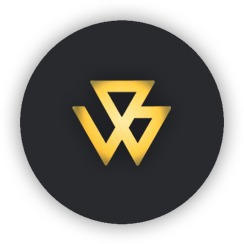
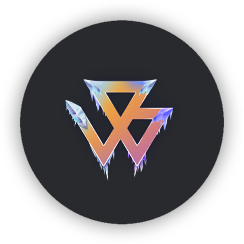
Редизайн нового года

Changed region(s): [[0.2582, 0.3156, 0.7172, 0.7459]]

diff --git a/Byster/Byster/Views/MainWindowReworked.xaml b/Byster/Byster/Views/MainWindowReworked.xaml
@@ -43,10 +43,11 @@
         <Grid x:Name="topPanel" Grid.Row="0">
             <Button x:Name="titleButton" Style="{DynamicResource imageButtonStyle}" HorizontalAlignment="Left" Margin="5" Cursor="Hand"
                     Command="{Binding UnselectSessionCommand}">
-                <Image Source="/Resources/Images/logo.png"/>
+                <Image Source="/Resources/Images/logo.png" RenderOptions.BitmapScalingMode="HighQuality" Width="164" Stretch="Uniform"/>
             </Button>
 
-            <Image Source="/Resources/Images/top-decoration-figure.png" Width="720" VerticalAlignment="Top"/>
+            <Image Source="/Resources/Images/top-decoration-toys.png" RenderOptions.BitmapScalingMode="HighQuality" Stretch="Uniform" Height="65" HorizontalAlignment="Right" Margin="0, 0, 242, 0" VerticalAlignment="Top"/>
+            <Image Source="/Resources/Images/top-decoration-figure.png" Width="840" RenderOptions.BitmapScalingMode="HighQuality" VerticalAlignment="Top" Margin="0, -3, 0, 0"/>
 
             <StackPanel Orientation="Horizontal" HorizontalAlignment="Right" VerticalAlignment="Top">
                 <Button Style="{DynamicResource uibStyle}" x:Name="minimizeBtn" Height="30" Click="minimizeBtn_Click">
@@ -101,7 +102,10 @@
                     <Grid>
                         <ListBox Style="{DynamicResource rotationsViewStyle}" x:Name="rotationsViewBox"
                              ItemsSource="{Binding Mode=TwoWay, Path=ActiveRotations.AllActiveRotations, UpdateSourceTrigger=PropertyChanged}"/>
-                        <TextBlock Style="{DynamicResource infoTextBlockStyle}" Text="{Binding LocalizationData.NoRotations}" HorizontalAlignment="Center" VerticalAlignment="Center" x:Name="noRotationNotificationTextBlock" Visibility="{Binding Path=ControlVisibilities[2]}"/>
+                        <StackPanel HorizontalAlignment="Center" VerticalAlignment="Center">
+                            <Image Source="/Resources/Images/no-rotation-new-year.png" Stretch="Uniform" RenderOptions.BitmapScalingMode="HighQuality" Height="240" Visibility="{Binding Path=ControlVisibilities[2]}" Margin="0,0,0,15"/>
+                            <TextBlock Style="{DynamicResource infoTextBlockStyle}" Text="{Binding LocalizationData.NoRotations}" x:Name="noRotationNotificationTextBlock" Visibility="{Binding Path=ControlVisibilities[2]}"/>
+                        </StackPanel>
                     </Grid>
                 </Border>
             </Grid>

diff --git a/Byster/Byster/Views/LoginOrRegistrationWindow.xaml b/Byster/Byster/Views/LoginOrRegistrationWindow.xaml
@@ -35,7 +35,7 @@
                 <Button x:Name="closeButton" HorizontalAlignment="Right" Style="{StaticResource uibStyle}" Height="45" Width="45" Click="closeButton_Click">
                     <Image Source="../Resources/Images/close-button-image.png" Stretch="Uniform" Margin="12"/>
                 </Button>
-                <Image Source="../Resources/Images/logo.png" Stretch="None" Margin="0 0 0 5"/>
+                <Image Source="../Resources/Images/logo.png" Stretch="Uniform" RenderOptions.BitmapScalingMode="HighQuality" Height="90" Margin="0 0 0 5"/>
             </StackPanel>
             <StackPanel x:Name="authBlock" Margin="20, 0">
                 <TextBox Style="{StaticResource tbStyle}" x:Name="loginBox" Tag="Логин" Margin="{StaticResource marginUI}"/>

diff --git a/Byster/Byster/Properties/AssemblyInfo.cs b/Byster/Byster/Properties/AssemblyInfo.cs
@@ -51,5 +51,5 @@ using System.Windows;
 // Можно задать все значения или принять номера сборки и редакции по умолчанию 
 // используя "*", как показано ниже:
 // [assembly: AssemblyVersion("1.0.*")]
-[assembly: AssemblyVersion("3.1.0.16")]
-[assembly: AssemblyFileVersion("3.1.0.16")]
+[assembly: AssemblyVersion("3.1.0.17")]
+[assembly: AssemblyFileVersion("3.1.0.17")]
